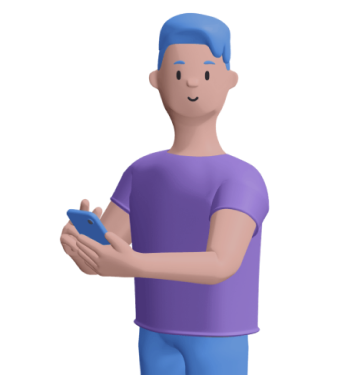
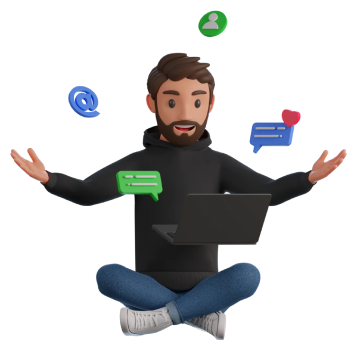
New 3d Model Updated

diff --git a/att-website/src/views/HomeView.vue b/att-website/src/views/HomeView.vue
@@ -105,6 +105,7 @@
         <li class="shape shape-1"><img src="../assets/img/circle-1.png" alt="Line"></li>
         <li class="shape shape-2"><img src="../assets/img/bubble-2.png" alt="Line"></li>
         <li class="shape shape-3"><img src="../assets/img/bubble-1.png" alt="Line"></li>
+        <li class="shape shape-4"><img src="../assets/img/we-do.png" alt="Line"></li>
       </ul>
     </div>
 

diff --git a/att-website/src/assets/css/style.css b/att-website/src/assets/css/style.css
@@ -16493,6 +16493,15 @@ input {
   top: 46%;
   left: 170px;
 }
+.shape-group-7 .shape.shape-4 {
+  top: 75%;
+  left: 60%;
+}
+@media only screen and (max-width: 991px) {
+  .shape-group-7 .shape.shape-4 {
+    top: 70%;
+  }
+}
 
 .shape-group-8 .shape {
   position: absolute;

diff --git a/att-website/src/assets/sass/elements/_sectionHeading.scss b/att-website/src/assets/sass/elements/_sectionHeading.scss
@@ -282,6 +282,13 @@
             top: 46%;
             left: 170px;
         }
+        &.shape-4 {
+            top: 75%;
+            left: 60%;
+            @media #{$md-layout} {
+                top: 70%;
+            }
+        }
     }
 }
 
